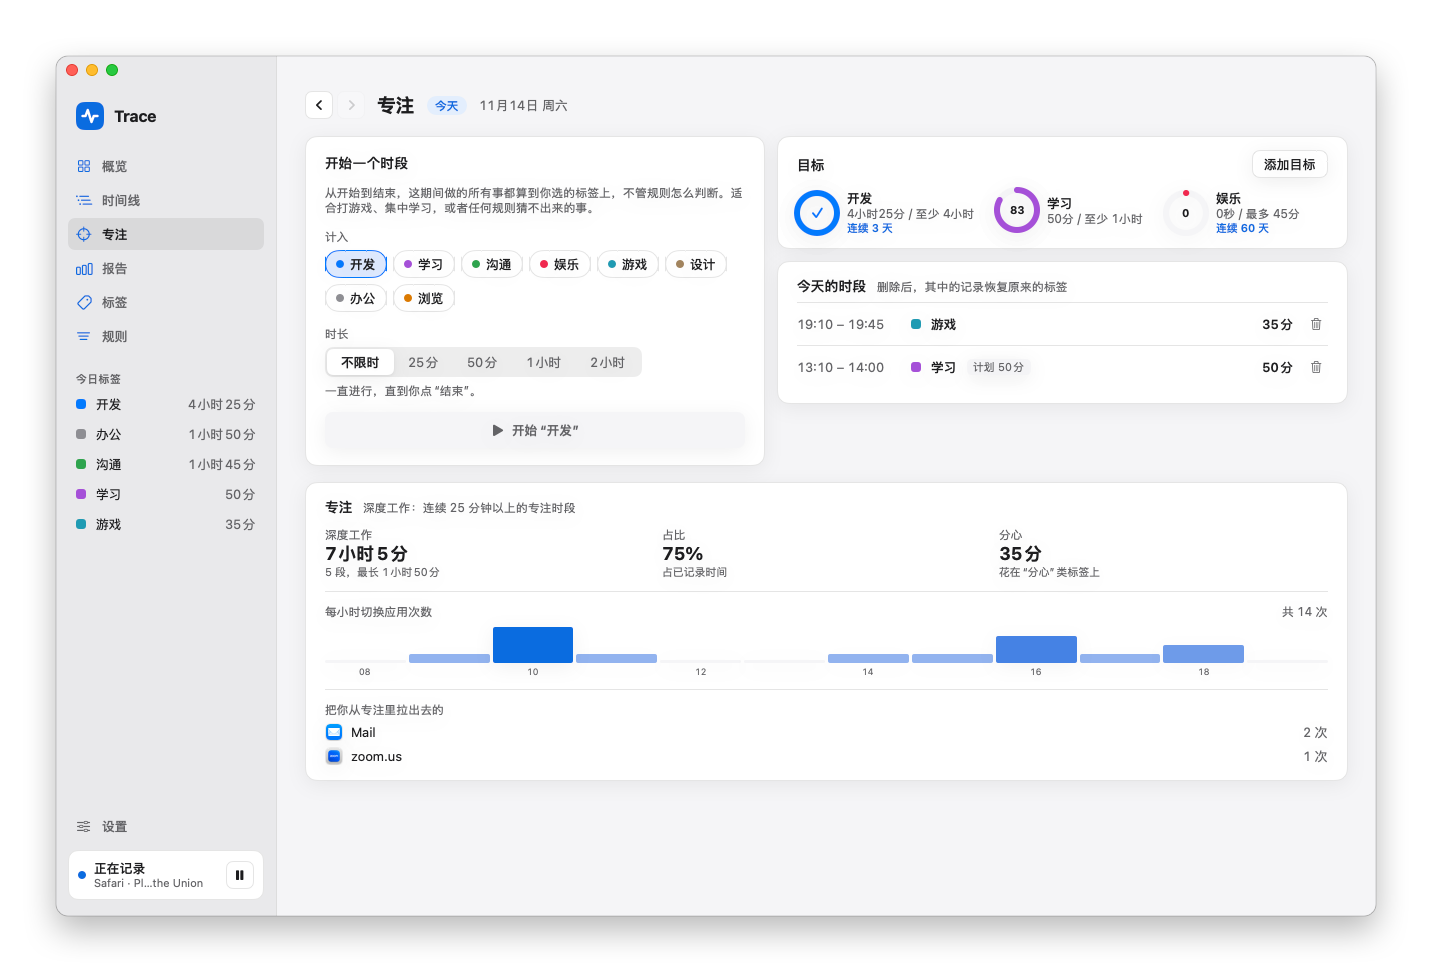
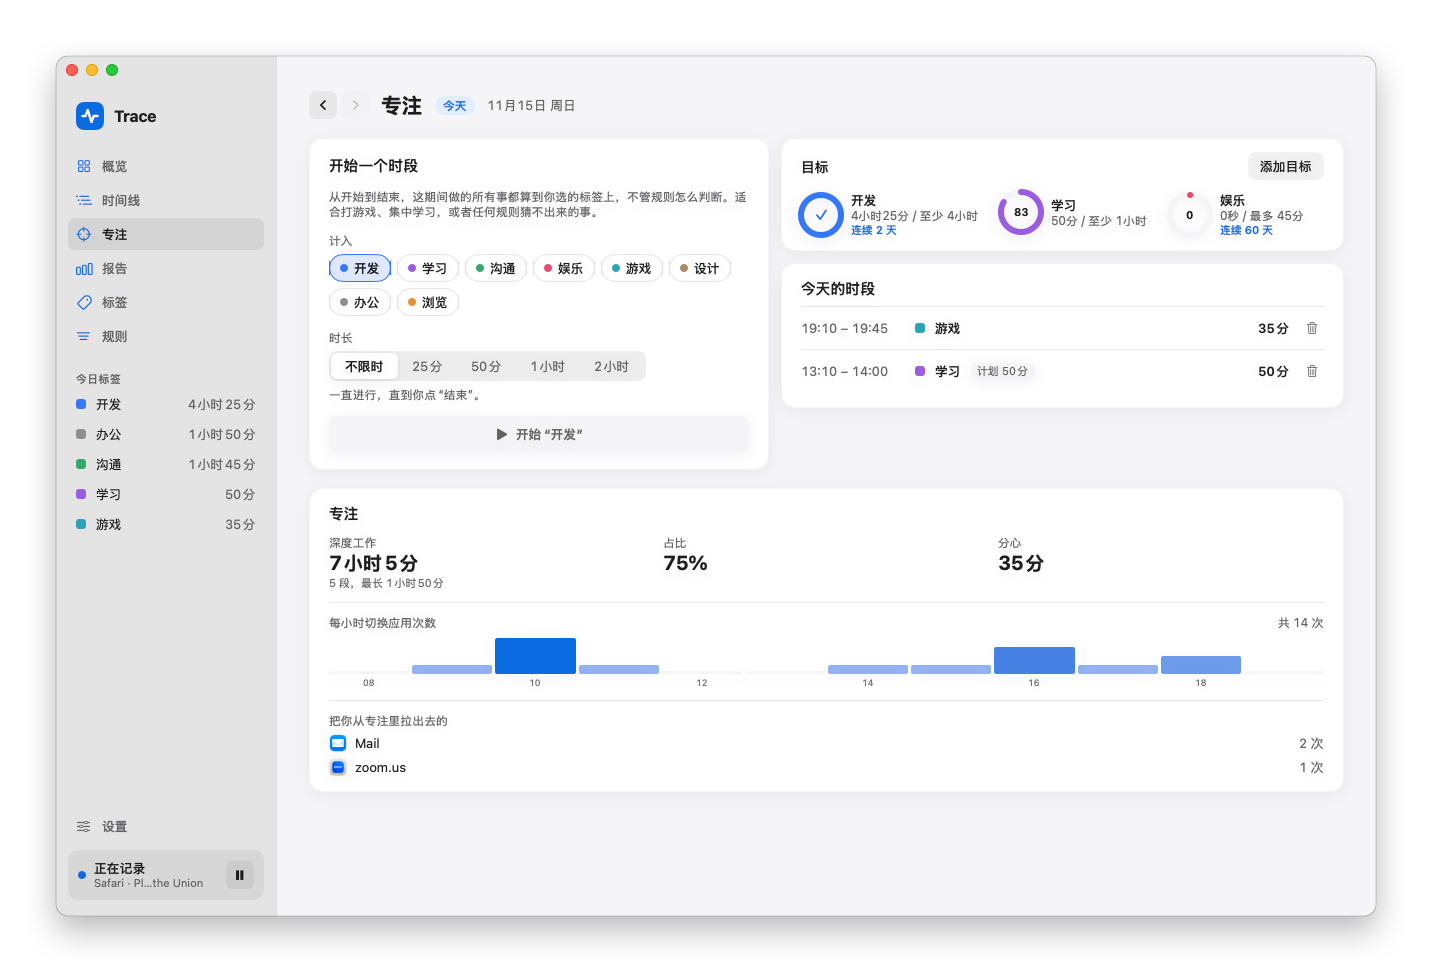
Refine the look and refresh the README images
Softer tag colours, lighter cards, borderless secondary controls, tinted
tag chips, larger titles and wider page margins. Two explanatory lines on
the focus card became tooltips. All screenshots and both tour animations
are regenerated in English and Chinese.

diff --git a/Sources/Trace/Views/Theme.swift b/Sources/Trace/Views/Theme.swift
@@ -25,11 +25,13 @@ enum Theme {
     static let onAccent = dyn(0xFFFFFF, 0x04213F)
     static let soft = dyn(0xE3EEFD, 0x1B3350)
     static let ok = dyn(0x2DA44E, 0x30D158)
-    static let shadow = dyn(0x000000, 0x000000, alpha: (0.06, 0.25))
+    static let shadow = dyn(0x000000, 0x000000, alpha: (0.05, 0.25))
+    /// The quiet fill of a control that is not the main action.
+    static let fill = dyn(0x000000, 0xFFFFFF, alpha: (0.055, 0.10))
 
     static let palette: [Color] = [
-        dyn(0x007AFF, 0x0A84FF), dyn(0xA550D8, 0xBF5AF2), dyn(0x2DA44E, 0x30D158), dyn(0xDB7A00, 0xFF9F0A),
-        dyn(0xF0284F, 0xFF375F), dyn(0x8E8E93, 0x98989D), dyn(0x1E9BB3, 0x40C8E0), dyn(0xA2845E, 0xAC8E68),
+        dyn(0x3478F6, 0x4C8DFF), dyn(0x9A5CE0, 0xB57BF0), dyn(0x34A86B, 0x3CCB7F), dyn(0xE8912D, 0xF5A947),
+        dyn(0xEB4B6D, 0xF76484), dyn(0x8E8E93, 0x98989D), dyn(0x2AA3B8, 0x4CC3D9), dyn(0xA78B67, 0xB89A74),
     ]
 
     static let mono = Font.system(size: 12, design: .monospaced)
@@ -77,9 +79,9 @@ struct Card<Content: View>: View {
         content
             .padding(padding)
             .frame(maxWidth: .infinity, alignment: .topLeading)
-            .background(Theme.panel, in: RoundedRectangle(cornerRadius: 12, style: .continuous))
-            .overlay(RoundedRectangle(cornerRadius: 12, style: .continuous).strokeBorder(Theme.line.opacity(0.6)))
-            .shadow(color: Theme.shadow, radius: 6, y: 2)
+            .background(Theme.panel, in: RoundedRectangle(cornerRadius: 14, style: .continuous))
+            .overlay(RoundedRectangle(cornerRadius: 14, style: .continuous).strokeBorder(Theme.line.opacity(0.45)))
+            .shadow(color: Theme.shadow, radius: 8, y: 3)
     }
 }
 
@@ -102,7 +104,7 @@ struct PageHeader<Leading: View, Trailing: View>: View {
     var body: some View {
         HStack(spacing: 12) {
             leading
-            Text(title).font(.system(size: 20, weight: .bold)).tracking(-0.2).lineLimit(1).help(hint)
+            Text(title).font(.system(size: 22, weight: .bold)).tracking(-0.4).lineLimit(1).help(hint)
             if !pill.isEmpty {
                 Text(pill)
                     .font(.system(size: 12, weight: .semibold))
@@ -135,7 +137,7 @@ struct SectionTitle: View {
     var body: some View {
         // The note explains the section; it shows when the pointer rests on
         // the title rather than taking up a line of its own.
-        Text(title).font(.system(size: 14, weight: .semibold))
+        Text(title).font(.system(size: 15, weight: .semibold))
             .help(note)
     }
 }
@@ -199,8 +201,7 @@ struct SearchField: View {
         }
         .padding(.horizontal, 10)
         .frame(height: 30)
-        .background(Theme.panel, in: RoundedRectangle(cornerRadius: 8, style: .continuous))
-        .overlay(RoundedRectangle(cornerRadius: 8, style: .continuous).strokeBorder(Theme.line))
+        .background(Theme.fill, in: RoundedRectangle(cornerRadius: 8, style: .continuous))
     }
 }
 
@@ -238,7 +239,6 @@ struct TRButtonStyle: ButtonStyle {
             .frame(minHeight: height)
             .foregroundStyle(foreground)
             .background(background, in: shape)
-            .overlay(shape.strokeBorder(kind == .bordered ? Theme.line : .clear))
             .opacity(configuration.isPressed ? 0.7 : 1)
             .contentShape(shape)
     }
@@ -255,7 +255,7 @@ struct TRButtonStyle: ButtonStyle {
     private var background: Color {
         switch kind {
         case .prominent: return isEnabled ? Theme.accent : Theme.bg
-        case .bordered: return Theme.panel
+        case .bordered: return Theme.fill
         case .link: return .clear
         }
     }
@@ -278,8 +278,7 @@ struct IconButton: View {
             Image(systemName: symbol)
                 .font(.system(size: 11, weight: .bold))
                 .frame(width: 28, height: 28)
-                .background(Theme.panel, in: RoundedRectangle(cornerRadius: 7, style: .continuous))
-                .overlay(RoundedRectangle(cornerRadius: 7, style: .continuous).strokeBorder(Theme.line))
+                .background(Theme.fill, in: RoundedRectangle(cornerRadius: 7, style: .continuous))
                 .contentShape(Rectangle())
         }
         .buttonStyle(.plain)
@@ -316,7 +315,7 @@ struct Swatch: View {
     }
 }
 
-/// A tag as an outlined capsule.
+/// A tag as a capsule tinted with its colour.
 struct TagChip: View {
     let tag: Tag?
     var round = false
@@ -328,8 +327,7 @@ struct TagChip: View {
         }
         .padding(.horizontal, 8)
         .padding(.vertical, 2)
-        .background(Theme.panel, in: Capsule())
-        .overlay(Capsule().strokeBorder(Theme.line))
+        .background(Palette.color(tag).opacity(0.14), in: Capsule())
         .fixedSize()
     }
 }

diff --git a/Sources/Trace/Views/FocusGoalsView.swift b/Sources/Trace/Views/FocusGoalsView.swift
@@ -201,8 +201,10 @@ struct FocusCard: View {
                     stat(L("Deep work"), Fmt.duration(focus.deepSeconds),
                          focus.deepCount == 0 ? L("none yet")
                          : String(format: L("%1$d stretches, longest %2$@"), focus.deepCount, Fmt.duration(focus.longestDeep)))
-                    stat(L("Share of the day"), "\(Int((focus.deepShare * 100).rounded()))%", L("of tracked time"))
-                    stat(L("Distraction"), Fmt.duration(focus.distractionSeconds), L("on distraction tags"))
+                    stat(L("Share of the day"), "\(Int((focus.deepShare * 100).rounded()))%", "")
+                        .help(L("of tracked time"))
+                    stat(L("Distraction"), Fmt.duration(focus.distractionSeconds), "")
+                        .help(L("on distraction tags"))
                 }
                 Hairline()
                 VStack(alignment: .leading, spacing: 6) {
@@ -250,9 +252,11 @@ struct FocusCard: View {
     private func stat(_ title: String, _ value: String, _ note: String) -> some View {
         VStack(alignment: .leading, spacing: 1) {
             Text(title).font(.system(size: 12)).foregroundStyle(Theme.muted)
-            Text(value).font(.system(size: 18, weight: .bold)).lineLimit(1).minimumScaleFactor(0.7)
-            Text(note).font(.system(size: 11)).foregroundStyle(Theme.muted).lineLimit(2).fixedSize(horizontal: false, vertical: true)
+            Text(value).font(.system(size: 20, weight: .bold)).tracking(-0.2).lineLimit(1).minimumScaleFactor(0.7)
+            if !note.isEmpty {
+                Text(note).font(.system(size: 11)).foregroundStyle(Theme.muted).lineLimit(1)
+            }
         }
-        .frame(maxWidth: .infinity, alignment: .leading)
+        .frame(maxWidth: .infinity, alignment: .topLeading)
     }
 }

diff --git a/Sources/Trace/Views/RootView.swift b/Sources/Trace/Views/RootView.swift
@@ -88,8 +88,8 @@ struct Page<Content: View>: View {
 
     var body: some View {
         ScrollView {
-            VStack(alignment: .leading, spacing: 16) { content }
-                .padding(EdgeInsets(top: topInset, leading: 28, bottom: 28, trailing: 28))
+            VStack(alignment: .leading, spacing: 18) { content }
+                .padding(EdgeInsets(top: topInset, leading: 32, bottom: 32, trailing: 32))
         }
     }
 }
@@ -274,8 +274,7 @@ struct RecordingStatus: View {
             }
         }
         .padding(10)
-        .background(Theme.panel, in: RoundedRectangle(cornerRadius: 10, style: .continuous))
-        .overlay(RoundedRectangle(cornerRadius: 10, style: .continuous).strokeBorder(Theme.line))
+        .background(Theme.fill, in: RoundedRectangle(cornerRadius: 10, style: .continuous))
     }
 }
 
